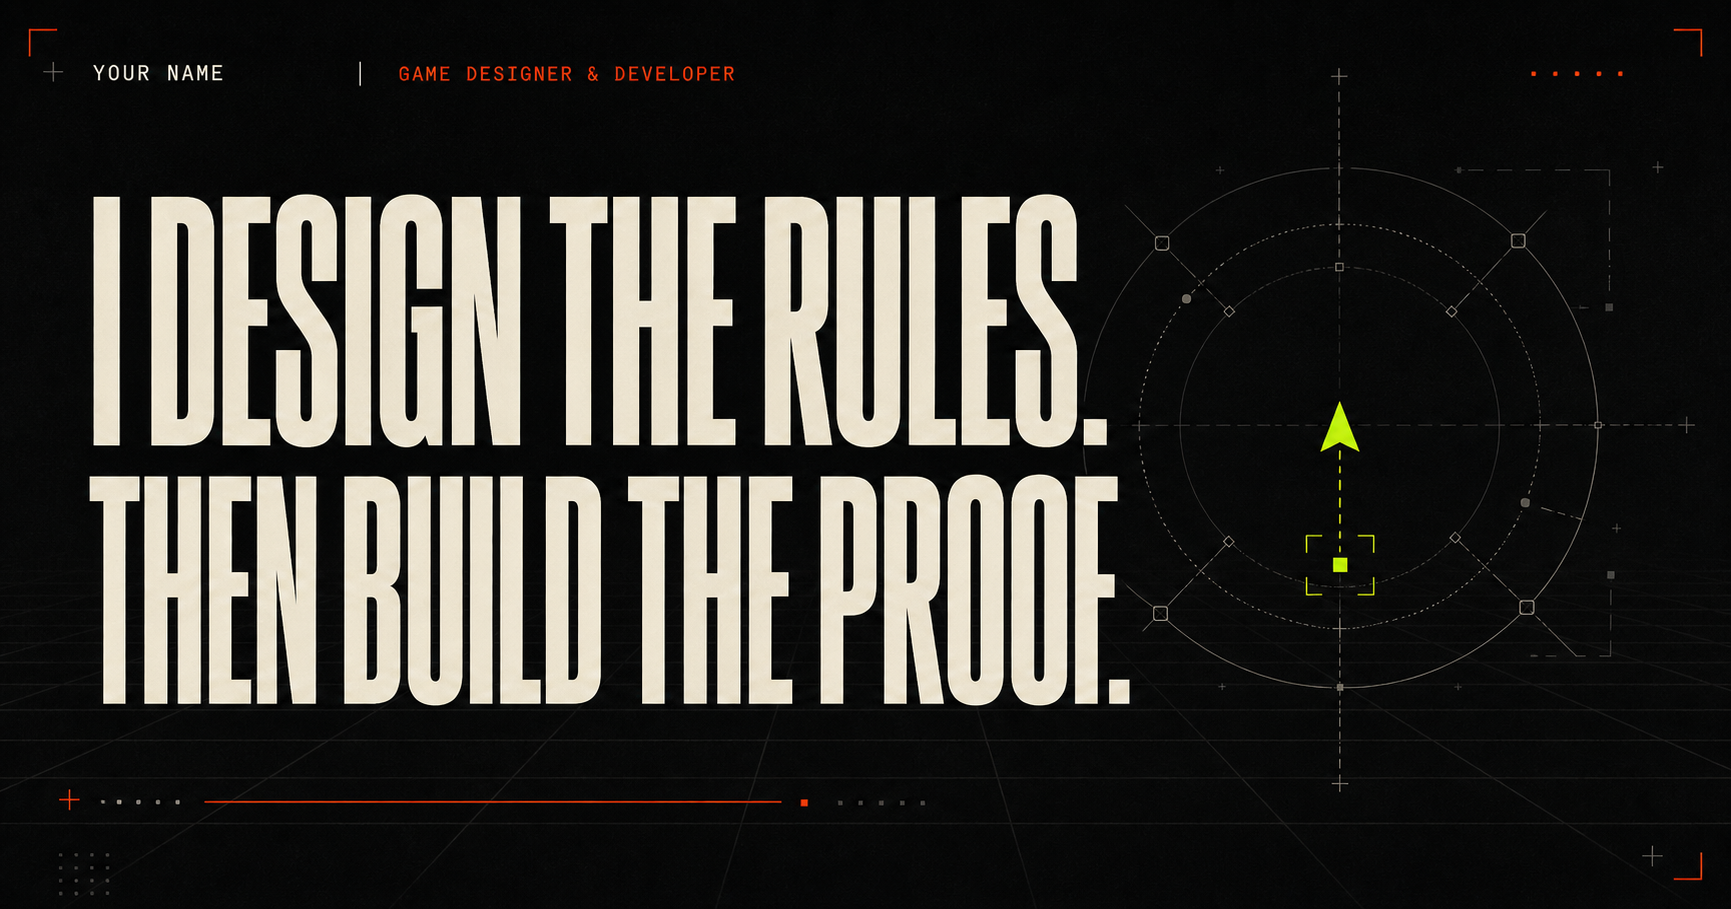
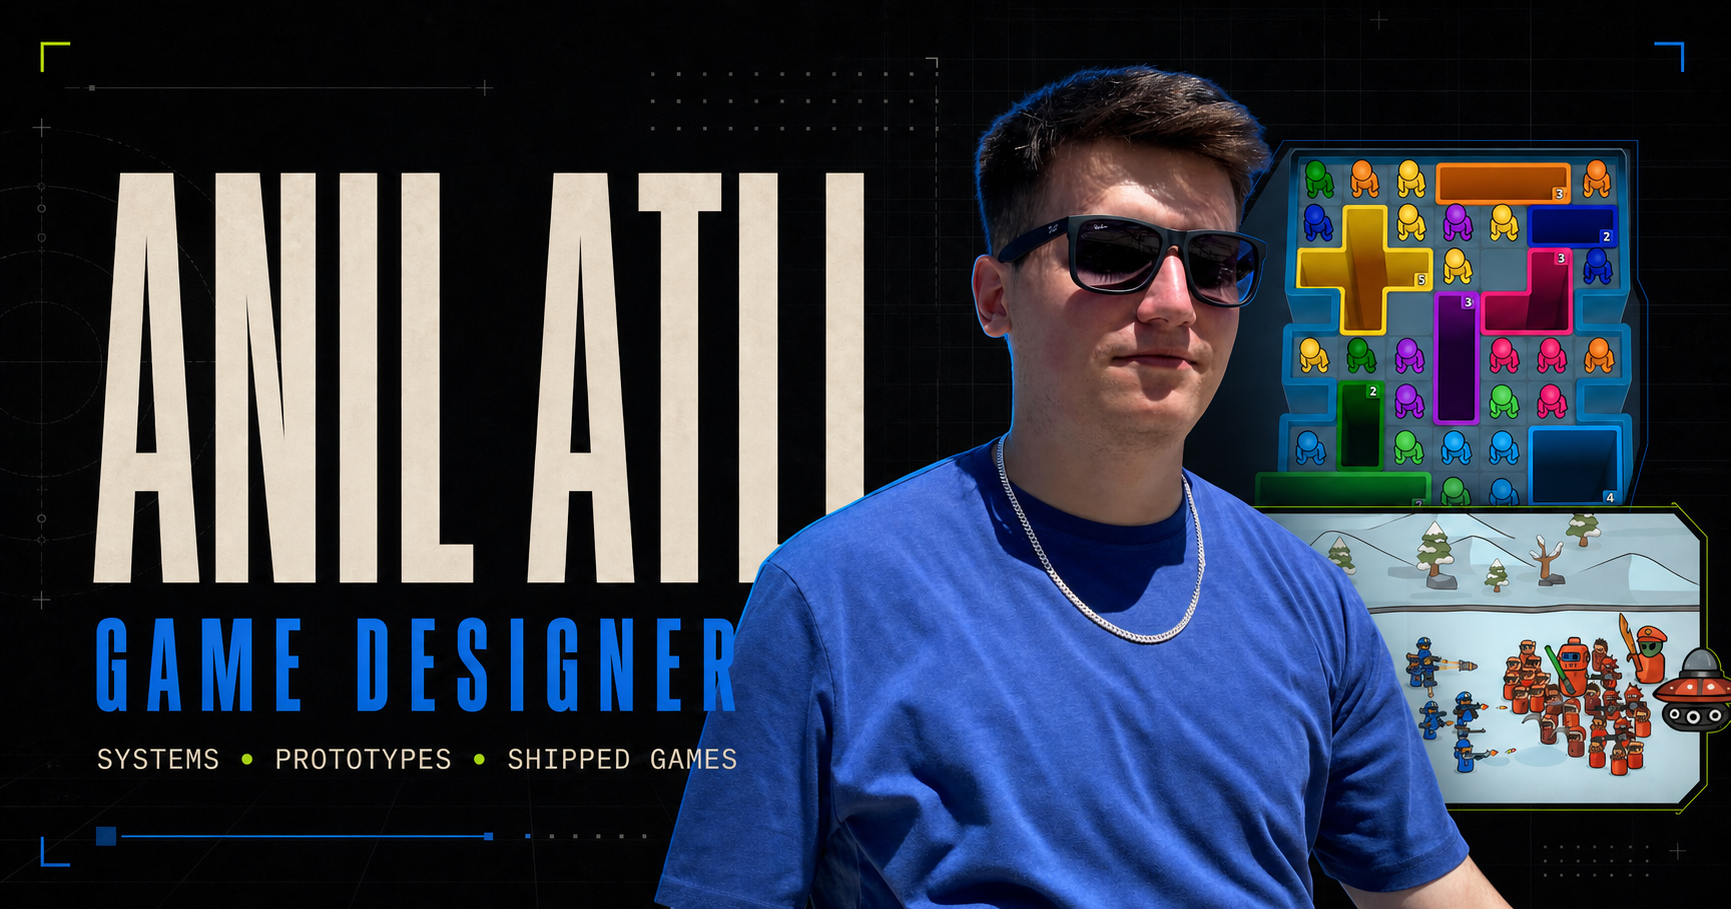
Update social sharing image

diff --git a/app/layout.tsx b/app/layout.tsx
@@ -24,7 +24,7 @@ export const metadata: Metadata = {
     title,
     description,
     type: "website",
-    images: [{ url: "/og.png", width: 1743, height: 909, alt: "Game Designer & Developer portfolio" }],
+    images: [{ url: "/og.png", width: 1731, height: 909, alt: "Anıl Atlı — Game Designer portfolio" }],
   },
   twitter: {
     card: "summary_large_image",
